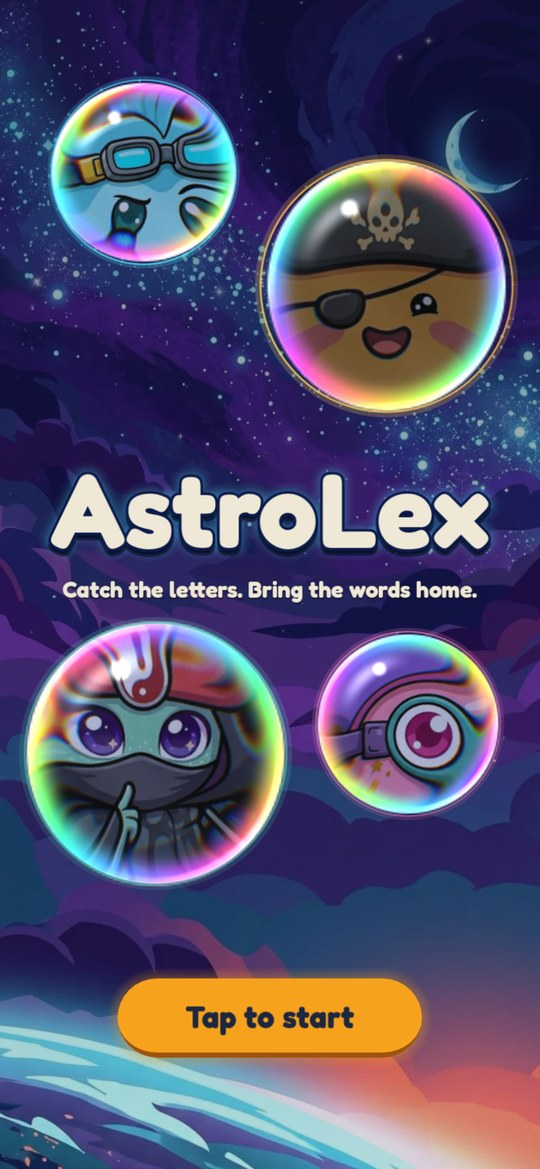
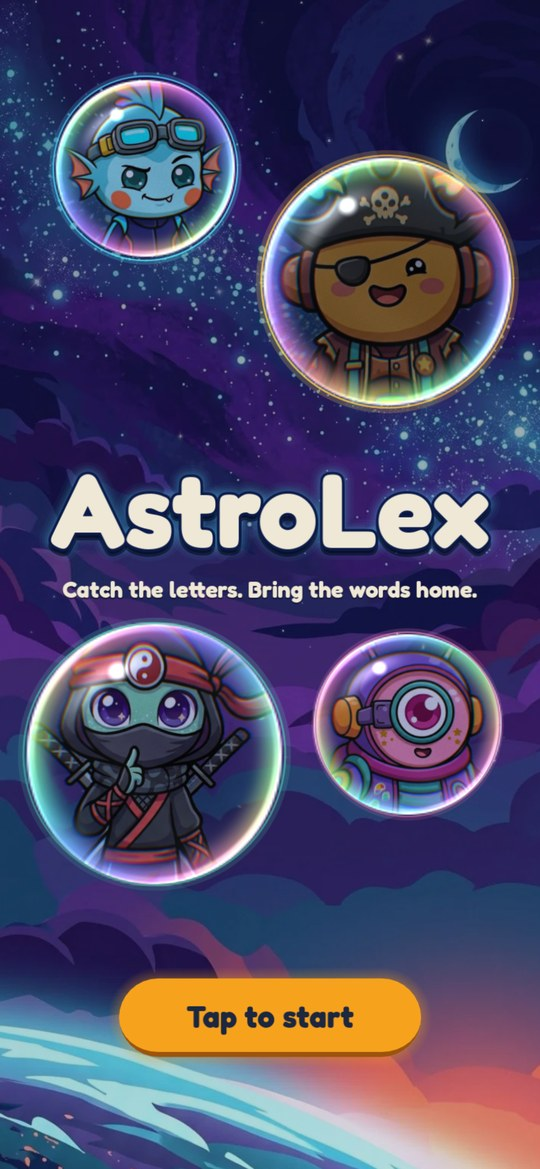
WP-F.29: clear glass over sharp 640 px busts for the intro
Claude-Session: https://claude.ai/code/session_01WDkyXLpEfxw1P2dHkg5jGb

diff --git a/scripts/art/make_intro_busts.py b/scripts/art/make_intro_busts.py
@@ -1,0 +1,30 @@
+"""Circle-cropped 640 px busts for the intro screen (WP-F.29). Pillow only.
+Reads the four character sheets from the design mount, writes game/art/intro/<id>.png."""
+import sys
+from pathlib import Path
+from PIL import Image, ImageChops, ImageDraw
+
+SRC = Path(sys.argv[1] if len(sys.argv) > 1 else "/mnt/project-files/design/characters")
+OUT = Path(__file__).resolve().parents[2] / "game" / "art" / "intro"
+SIZE = 640
+SS = 4
+
+
+def main() -> None:
+    OUT.mkdir(parents=True, exist_ok=True)
+    for cid in ("wren", "juno", "ash", "pip"):
+        im = Image.open(SRC / f"{cid}.png").convert("RGBA")
+        x0, y0, x1, y1 = im.getbbox()
+        side = 760  # head and shoulders: the top of the head down to the chest
+        cx = (x0 + x1) // 2
+        left = max(0, min(im.width - side, cx - side // 2))
+        crop = im.crop((left, y0, left + side, y0 + side)).resize((SIZE, SIZE), Image.LANCZOS)
+        mask = Image.new("L", (SIZE * SS, SIZE * SS), 0)
+        ImageDraw.Draw(mask).ellipse((0, 0, SIZE * SS - 1, SIZE * SS - 1), fill=255)
+        mask = mask.resize((SIZE, SIZE), Image.LANCZOS)
+        crop.putalpha(ImageChops.multiply(crop.getchannel("A"), mask))
+        crop.save(OUT / f"{cid}.png", optimize=True)
+        print(cid, left, y0, side)
+
+
+main()

diff --git a/reports/WP-F.29/evidence.md b/reports/WP-F.29/evidence.md
@@ -5,7 +5,7 @@ Frames: 390x844 phone at device pixel ratio 3, `node shot.cjs build/web <dir> ''
 | # | Criterion | Result | Check | Artefact |
 |---|---|---|---|---|
 | 1 | Built from the game's kit | pass | `Ui.add_sky` (the title's painted Low Orbit sky and stars), "AstroLex" in Fredoka via `Ui.text` (cream, navy outline, soft cyan 4fe3ff glow copies), four `TileView` bubbles (the title logo row's glass shader, no glyph) over the Catcher busts with a thin suit-colour rim, standard `Ui.primary("Tap to start")` 600x156. Layout as the owner's reference: Wren top left small, Juno top right large, Ash bottom left large, Pip bottom right small. Bubbles pop in one by one and bob out of step; reduced motion holds still. Tap anywhere, the button or `intro.holdSec` finishes; skips unchanged. | `reports/WP-F.29/intro.jpg`, `intro-title.jpg`; `game/tests/scenes/test_intro.gd` |
-| 2 | No generated key art | pass | `game/art/intro/` and `scripts/art/make_intro.py` deleted; only `res://brand/characters/*.png` is used. Busts sit on a layer behind all glass (the glass refracts one screen copy per frame) and the intro lowers `glass.dark` locally so they show through. | `grep -r art/intro` finds nothing |
+| 2 | No generated key art | pass | No baked sky, logo or bubble. The only art added is four plain circle-cropped 640 px busts (head and shoulders, no bubble) in `game/art/intro/`, made by `scripts/art/make_intro_busts.py` (Pillow, reads only the four sheets in /mnt/project-files/design/characters), imported lossless with mipmaps. Busts sit on a layer behind all glass. The glass is tamed locally: dark, refract_px, blur, magnify, frost 0, rim_bend 0.12, chroma 0.25, milk 0.03, film 0.45; specular and rim kept. | `game/art/intro/*.png`, `intro.jpg` |
 | 3 | Checks | pass | `scripts/godot/test.sh`: 376 passed, 0 failed, no SCRIPT ERROR. `validate_data` ok. `scripts/godot/export.sh web` ok and boots in Chromium. | this file |
 
-Left: the busts are the 320 px character PNGs cropped to the circle; at 540 px they are slightly soft.
+Left: nothing.
